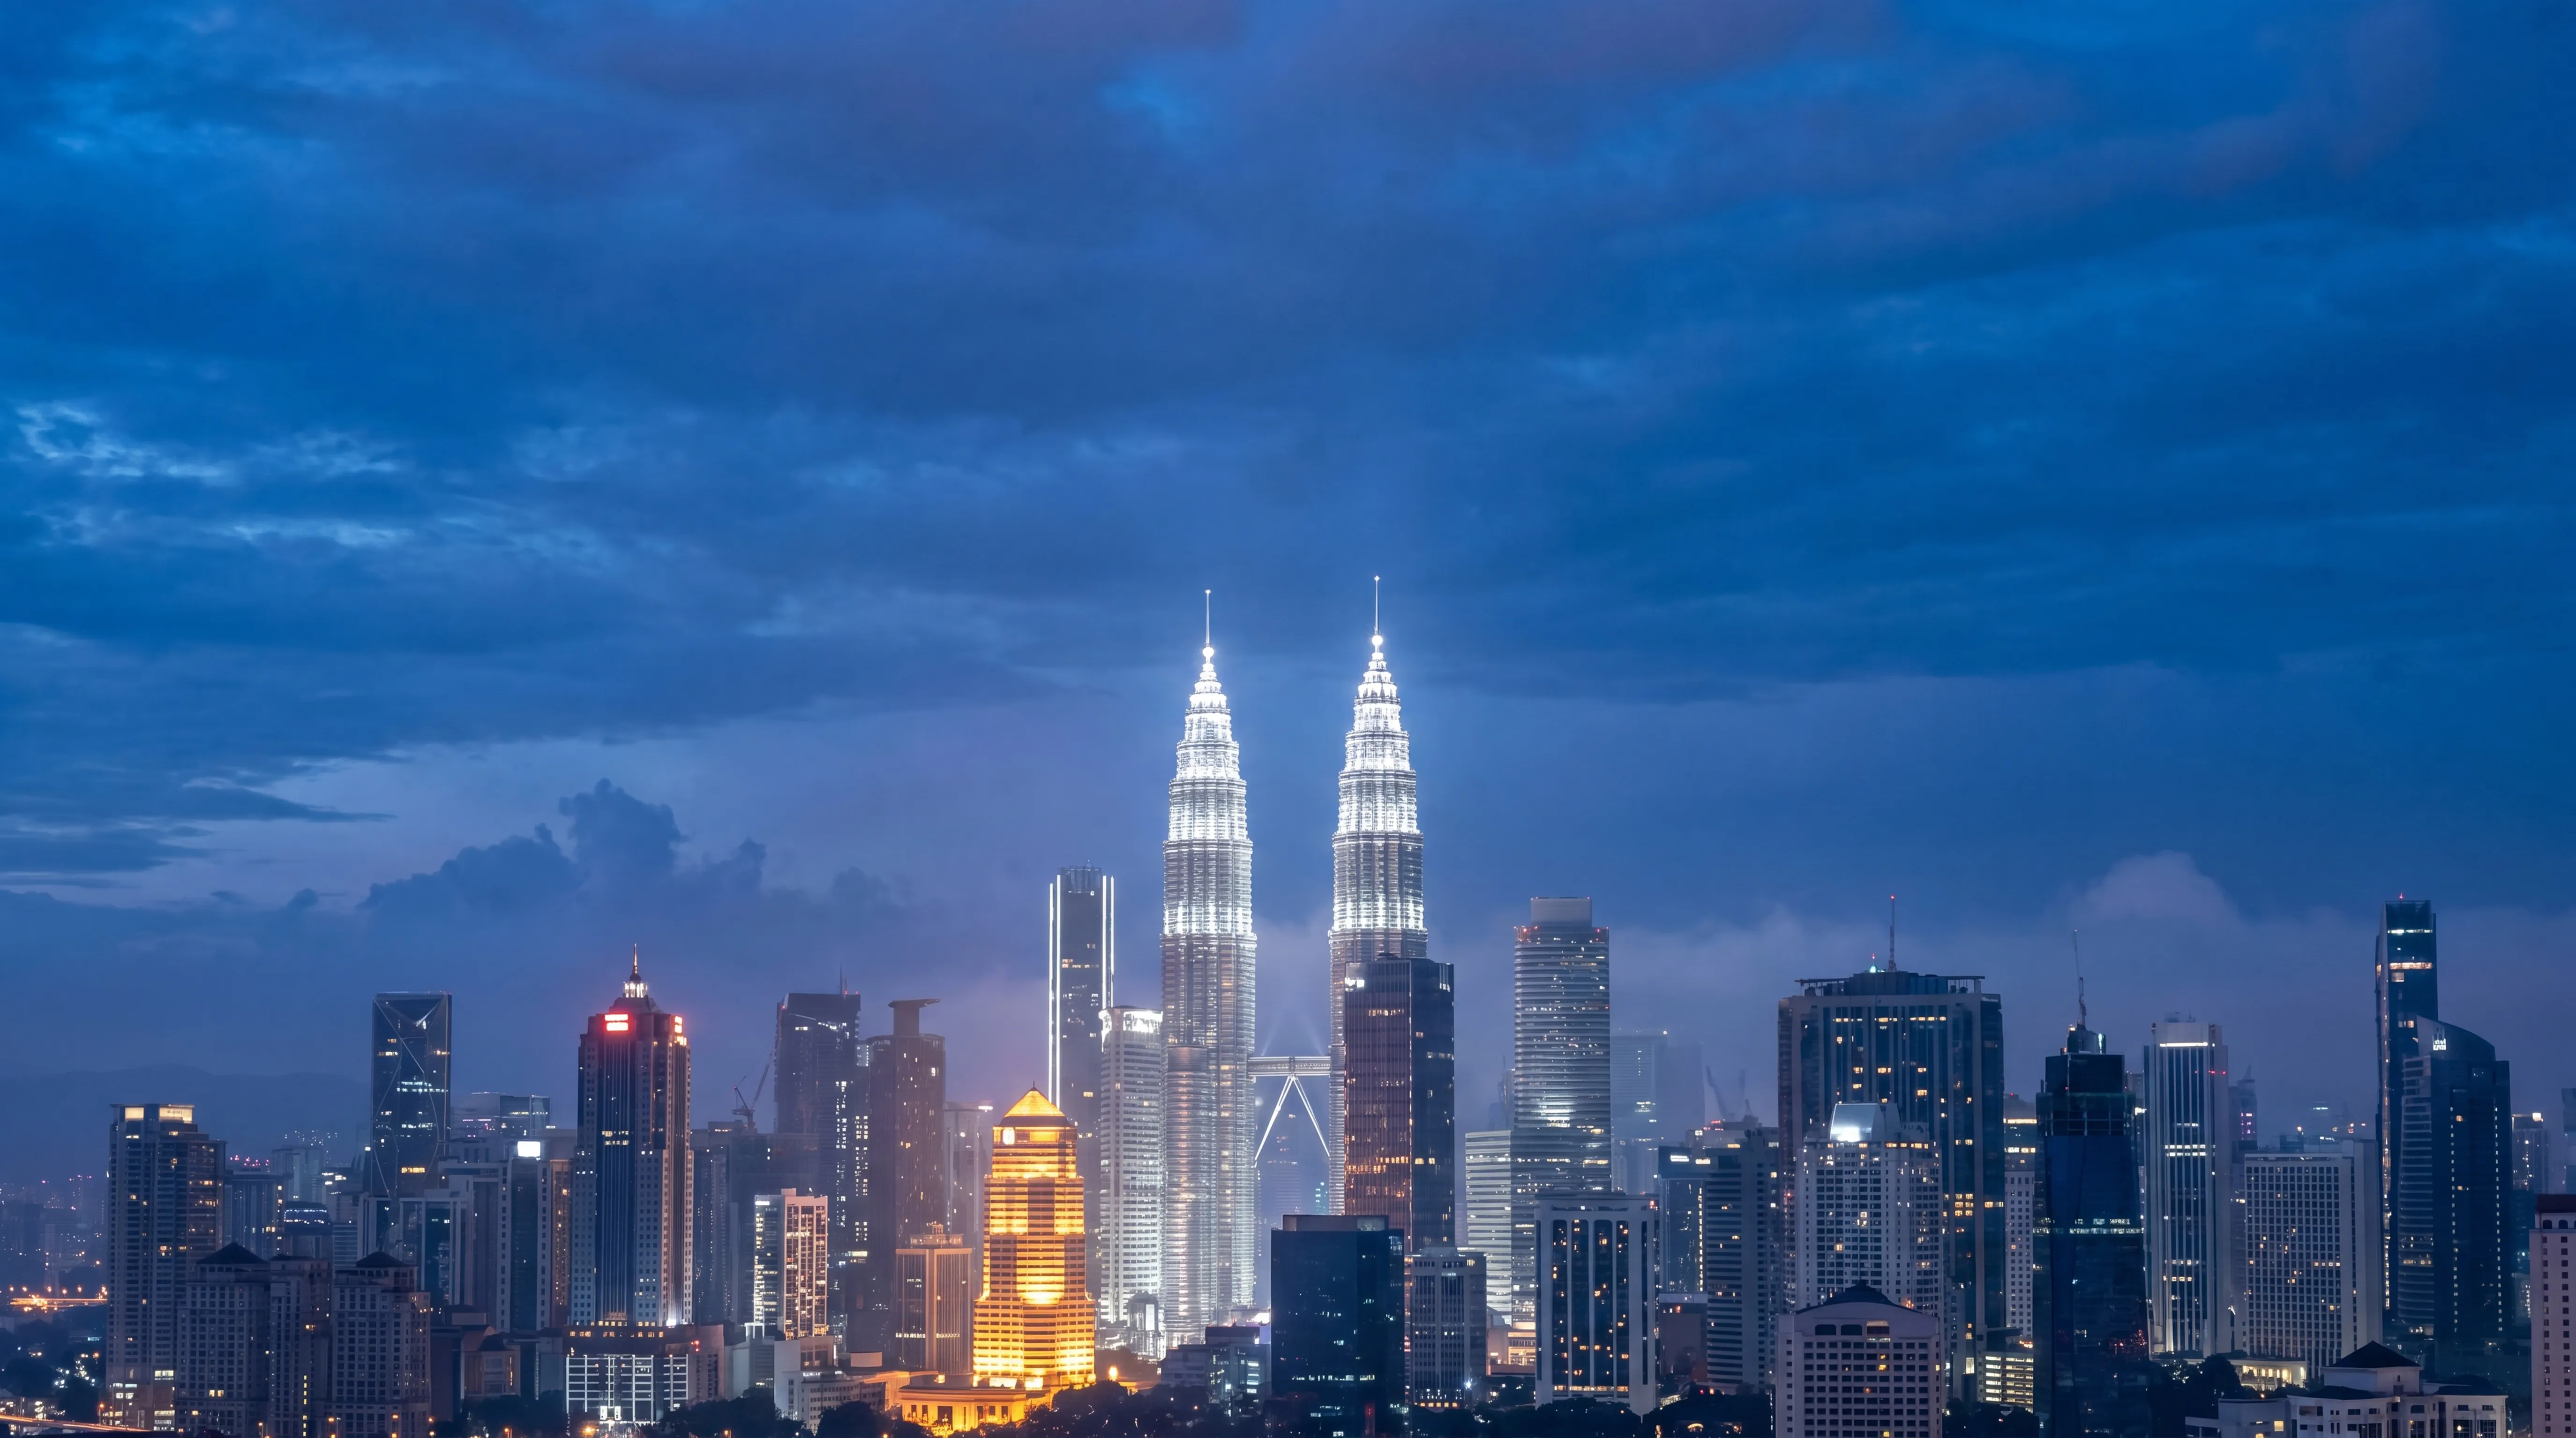
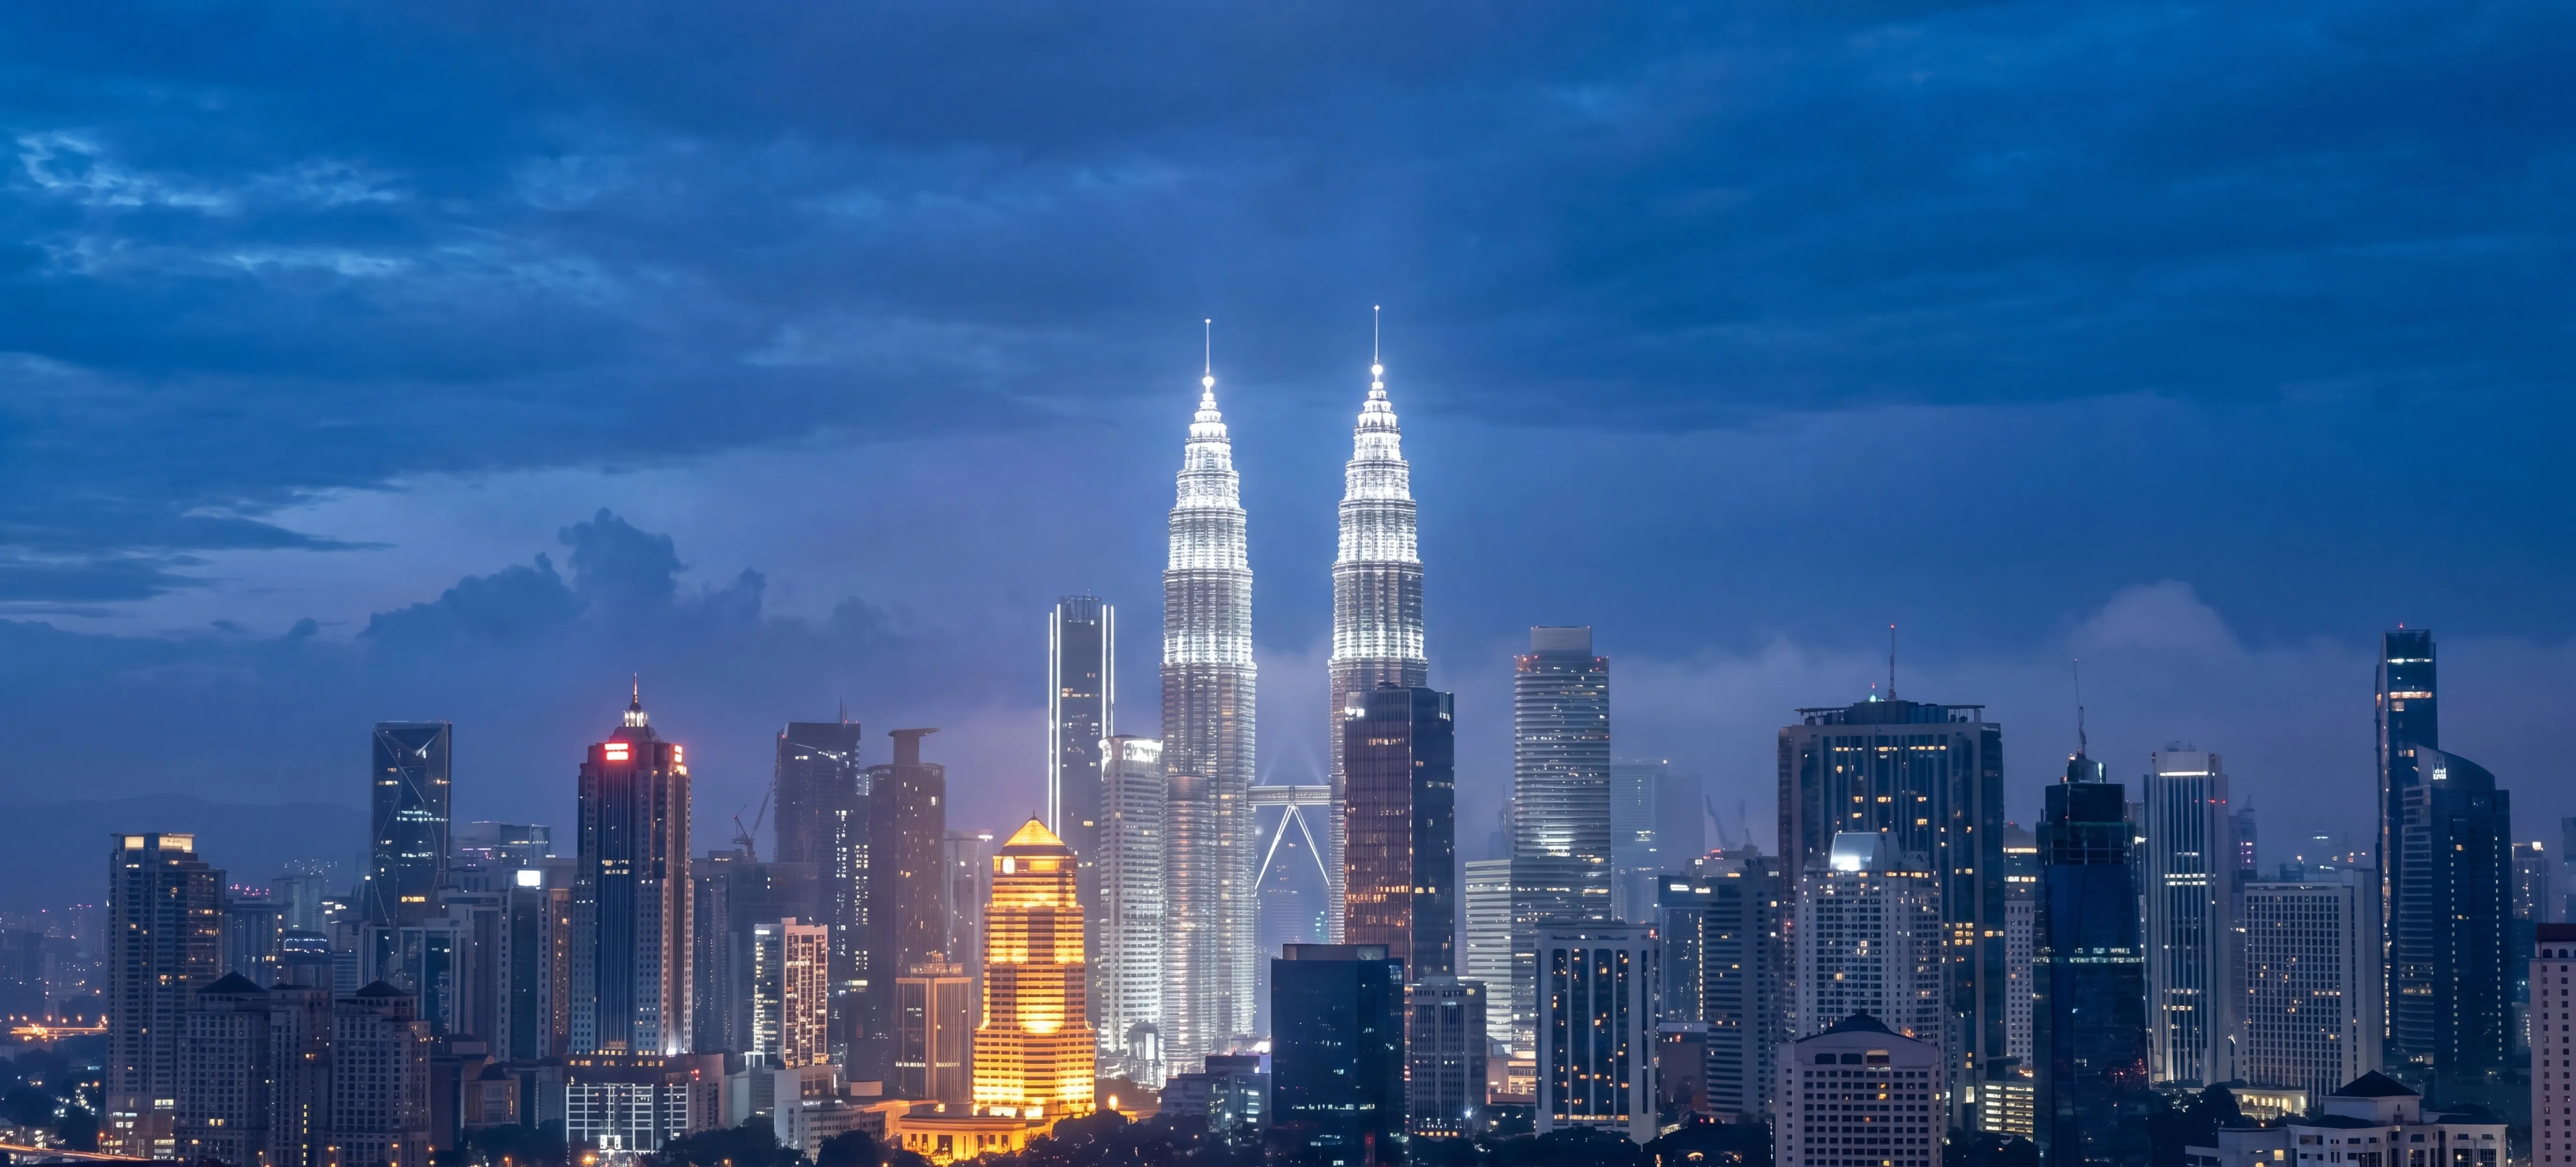
feat: update homestay cards to blue add booking.com CTA and links

diff --git a/src/components/cards/HomestayCard.tsx b/src/components/cards/HomestayCard.tsx
@@ -1,8 +1,9 @@
 import { useState } from "react";
 import { Link } from "react-router-dom";
-import { MapPin, Users, BedDouble, Bath, Home as HomeIcon, ArrowRight } from "lucide-react";
+import { MapPin, Users, BedDouble, Bath, Home as HomeIcon } from "lucide-react";
 import type { Homestay } from "@/lib/data";
 import { cn } from "@/lib/utils";
+import bookingSvg from "@/assets/booking-ar21.svg";
 
 type HomestayCardProps = {
   homestay: Homestay;
@@ -15,15 +16,15 @@ export default function HomestayCard({ homestay, className }: HomestayCardProps)
   return (
     <article
       className={cn(
-        "group flex flex-col overflow-hidden rounded-2xl border border-slate-200 bg-white shadow-md card-hover-violet",
+        "group flex flex-col overflow-hidden rounded-2xl border border-slate-200 bg-white shadow-md card-hover-blue",
         className
       )}
     >
       {/* Gradient top accent stripe */}
-      <div className="h-1.5 w-full bg-gradient-to-r from-violet-500 to-purple-500" aria-hidden="true" />
+      <div className="h-1.5 w-full bg-gradient-to-r from-blue-500 to-cyan-500" aria-hidden="true" />
 
-      {/* Image */}
-      <div className="relative aspect-[4/3] overflow-hidden bg-gradient-to-br from-violet-50 to-purple-50 flex items-center justify-center">
+      {/* Image - Clickable */}
+      <Link to={`/homestay/${homestay.slug}`} className="block relative aspect-[4/3] overflow-hidden bg-gradient-to-br from-blue-50 to-cyan-50 flex items-center justify-center">
         {!imgError && homestay.image ? (
           <img
             src={homestay.image}
@@ -35,27 +36,29 @@ export default function HomestayCard({ homestay, className }: HomestayCardProps)
         ) : (
           <div className="flex flex-col items-center justify-center gap-2 p-6">
             <div className="flex h-16 w-16 items-center justify-center rounded-2xl bg-white shadow-sm">
-              <HomeIcon className="h-8 w-8 text-violet-200" />
+              <HomeIcon className="h-8 w-8 text-blue-200" />
             </div>
-            <span className="text-[11px] font-semibold uppercase tracking-widest text-violet-300">
+            <span className="text-[11px] font-semibold uppercase tracking-widest text-blue-300">
               Photo coming soon
             </span>
           </div>
         )}
 
         {/* Location overlay pill */}
-        <div className="absolute bottom-3 left-3 flex items-center gap-1.5 rounded-full bg-gradient-to-r from-violet-600/85 to-purple-600/85 px-3 py-1.5 backdrop-blur-sm">
+        <div className="absolute bottom-3 left-3 flex items-center gap-1.5 rounded-full bg-gradient-to-r from-blue-600/85 to-cyan-600/85 px-3 py-1.5 backdrop-blur-sm">
           <MapPin className="h-3 w-3 text-white/90" aria-hidden="true" />
           <span className="text-[11px] font-bold text-white">
             {homestay.location.split(",")[0]}
           </span>
         </div>
-      </div>
+      </Link>
 
       <div className="flex flex-1 flex-col p-5">
-        <h3 className="font-jost text-[19px] font-bold text-slate-900 leading-snug">
-          {homestay.name}
-        </h3>
+        <Link to={`/homestay/${homestay.slug}`} className="hover:text-blue-600 transition-colors">
+          <h3 className="font-jost text-[19px] font-bold text-slate-900 leading-snug">
+            {homestay.name}
+          </h3>
+        </Link>
 
         {/* Specs chips */}
         <div className="mt-3 flex flex-wrap gap-1.5">
@@ -98,13 +101,15 @@ export default function HomestayCard({ homestay, className }: HomestayCardProps)
             </p>
           )}
 
-          <Link
-            to={`/homestay/${homestay.slug}`}
-            className="ml-auto inline-flex items-center gap-1.5 rounded-xl bg-gradient-to-r from-violet-600 to-purple-600 px-4 py-2 text-sm font-jost font-bold text-white shadow-md shadow-violet-300/30 transition-all hover:shadow-violet-400/50 hover:scale-105 focus:outline-none focus:ring-2 focus:ring-violet-500 focus:ring-offset-2"
+          <a
+            href={homestay.bookingUrl || "#"}
+            target="_blank"
+            rel="noopener noreferrer"
+            className="ml-auto inline-flex items-center gap-1.5 rounded-xl bg-gradient-to-r from-blue-600 to-cyan-600 px-4 py-2 text-sm font-jost font-bold text-white shadow-md shadow-blue-300/30 transition-all hover:shadow-blue-400/50 hover:scale-105 focus:outline-none focus:ring-2 focus:ring-blue-500 focus:ring-offset-2"
           >
-            View stay
-            <ArrowRight className="h-4 w-4" aria-hidden="true" />
-          </Link>
+            View on
+            <img src={bookingSvg} alt="Booking.com" className="h-4 w-auto" />
+          </a>
         </div>
       </div>
     </article>

diff --git a/src/pages/ContactPage.tsx b/src/pages/ContactPage.tsx
@@ -71,49 +71,49 @@ export default function ContactPage() {
 
               {/* Contact Info List */}
               <div className="mt-10 space-y-6">
-                <div className="flex gap-4">
-                  <div className="flex h-12 w-12 shrink-0 items-center justify-center rounded-xl bg-blue-100 text-blue-700">
-                    <Phone className="h-6 w-6" />
+                <div className="flex gap-4 sm:gap-4">
+                  <div className="flex h-10 w-10 sm:h-12 sm:w-12 shrink-0 items-center justify-center rounded-xl bg-blue-100 text-blue-700">
+                    <Phone className="h-5 w-5 sm:h-6 sm:w-6" />
                   </div>
-                  <div>
-                    <h4 className="text-sm font-semibold uppercase tracking-wider text-slate-500">
+                  <div className="min-w-0 flex-1">
+                    <h4 className="text-[13px] sm:text-sm font-semibold uppercase tracking-wider text-slate-500">
                       Phone Number
                     </h4>
                     <a
                       href="tel:+60REPLACE_WITH_REAL_NUMBER"
-                      className="mt-1 block text-base font-medium text-slate-900 hover:text-blue-600 transition-colors"
+                      className="mt-1 block text-[15px] sm:text-base font-medium text-slate-900 hover:text-blue-600 transition-colors break-all sm:break-words"
                     >
                       +60 REPLACE_WITH_REAL_NUMBER
                     </a>
                   </div>
                 </div>
 
-                <div className="flex gap-4">
-                  <div className="flex h-12 w-12 shrink-0 items-center justify-center rounded-xl bg-blue-100 text-blue-700">
-                    <Mail className="h-6 w-6" />
+                <div className="flex gap-4 sm:gap-4">
+                  <div className="flex h-10 w-10 sm:h-12 sm:w-12 shrink-0 items-center justify-center rounded-xl bg-blue-100 text-blue-700">
+                    <Mail className="h-5 w-5 sm:h-6 sm:w-6" />
                   </div>
-                  <div>
-                    <h4 className="text-sm font-semibold uppercase tracking-wider text-slate-500">
+                  <div className="min-w-0 flex-1">
+                    <h4 className="text-[13px] sm:text-sm font-semibold uppercase tracking-wider text-slate-500">
                       Email Address
                     </h4>
                     <a
                       href="mailto:REPLACE_WITH_REAL_EMAIL"
-                      className="mt-1 block text-base font-medium text-slate-900 hover:text-blue-600 transition-colors"
+                      className="mt-1 block text-[15px] sm:text-base font-medium text-slate-900 hover:text-blue-600 transition-colors break-all sm:break-words"
                     >
                       REPLACE_WITH_REAL_EMAIL
                     </a>
                   </div>
                 </div>
 
-                <div className="flex gap-4">
-                  <div className="flex h-12 w-12 shrink-0 items-center justify-center rounded-xl bg-blue-100 text-blue-700">
-                    <Clock className="h-6 w-6" />
+                <div className="flex gap-4 sm:gap-4">
+                  <div className="flex h-10 w-10 sm:h-12 sm:w-12 shrink-0 items-center justify-center rounded-xl bg-blue-100 text-blue-700">
+                    <Clock className="h-5 w-5 sm:h-6 sm:w-6" />
                   </div>
-                  <div>
-                    <h4 className="text-sm font-semibold uppercase tracking-wider text-slate-500">
+                  <div className="min-w-0 flex-1">
+                    <h4 className="text-[13px] sm:text-sm font-semibold uppercase tracking-wider text-slate-500">
                       Operating Hours
                     </h4>
-                    <p className="mt-1 text-base font-medium text-slate-900">
+                    <p className="mt-1 text-[15px] sm:text-base font-medium text-slate-900 break-words">
                       REPLACE_WITH_REAL_HOURS
                     </p>
                   </div>

diff --git a/src/pages/HomestayDetailPage.tsx b/src/pages/HomestayDetailPage.tsx
@@ -7,7 +7,7 @@ import ImageGalleryPlaceholder from "@/components/ui/ImageGalleryPlaceholder";
 import SectionHeader from "@/components/ui/SectionHeader";
 import HomestayCard from "@/components/cards/HomestayCard";
 import { getHomestayBySlug, getRelatedHomestays } from "@/lib/data";
-import { generateWhatsAppLink } from "@/lib/whatsapp";
+import bookingSvg from "@/assets/booking-ar21.svg";
 import {
   MapPin,
   Users,
@@ -33,10 +33,6 @@ export default function HomestayDetailPage() {
   if (!homestay) return null;
 
   const relatedHomestays = getRelatedHomestays(homestay.slug);
-  const whatsappLink = generateWhatsAppLink({
-    serviceType: "Homestay",
-    itemName: homestay.name,
-    pageSource: `Homestay Detail - ${homestay.name}`});
 
   const overviewItems = [
     { icon: MapPin, label: "Location", value: homestay.location },
@@ -193,19 +189,17 @@ export default function HomestayDetailPage() {
                 </div>
               )}
 
-              {/* WhatsApp CTA */}
+              {/* Booking CTA */}
               <div className="mt-8">
-                <Button
-                  as="anchor"
-                  href={whatsappLink}
-                  external
-                  variant="whatsapp"
-                  size="lg"
-                  className="w-full sm:w-auto"
-                  iconLeft={<img src="/images/general/whatsapp-logo.svg" className="h-6 w-6 shrink-0" alt="" />}
+                <a
+                  href={homestay.bookingUrl || "#"}
+                  target="_blank"
+                  rel="noopener noreferrer"
+                  className="inline-flex w-full sm:w-auto items-center justify-center gap-2 rounded-xl bg-[#003580] hover:bg-[#002255] px-6 py-3.5 text-base font-bold text-white shadow-md shadow-[#003580]/30 transition-all hover:shadow-[#003580]/50 hover:scale-105 focus:outline-none focus:ring-2 focus:ring-[#003580] focus:ring-offset-2"
                 >
-                  Request Booking on WhatsApp
-                </Button>
+                  View on
+                  <img src={bookingSvg} alt="Booking.com" className="h-5 w-auto" />
+                </a>
               </div>
             </div>
           </div>

diff --git a/src/components/layout/Navbar.tsx b/src/components/layout/Navbar.tsx
@@ -102,7 +102,7 @@ export default function Navbar() {
       {isOpen && (
         <div
           id="mobile-menu"
-          className="fixed inset-x-0 top-20 z-50 h-[calc(100vh-5rem)] w-full border-t border-slate-200 bg-white px-4 py-6 shadow-xl transition-all duration-300 md:hidden flex flex-col justify-between"
+          className="fixed inset-x-0 top-20 z-50 h-[calc(100vh-5rem)] w-full border-t border-slate-200 bg-white px-4 py-6 shadow-xl transition-all duration-300 md:hidden flex flex-col"
         >
           <div className="flex flex-col gap-5">
             {navLinks.map((link) => {
@@ -119,20 +119,6 @@ export default function Navbar() {
                 </Link>
               );
             })}
-          </div>
-
-          <div className="pb-8">
-            <Button
-              as="anchor"
-              href={getGeneralWhatsAppLink()}
-              external
-              variant="whatsapp"
-              size="lg"
-              className="w-full justify-center"
-              iconLeft={<img src="/images/general/whatsapp-logo.svg" className="h-6 w-6" alt="" />}
-            >
-              Message us on WhatsApp
-            </Button>
           </div>
         </div>
       )}

diff --git a/src/components/sections/Hero.tsx b/src/components/sections/Hero.tsx
@@ -79,13 +79,13 @@ export default function Hero() {
                     : "opacity-0 translate-y-4 -z-10 duration-500"
                 )}
               >
-                <span className="mb-4 block font-satisfy text-[38px] md:text-[50px] text-blue-300 font-medium leading-none drop-shadow-md">
+                <span className="mb-2 sm:mb-4 block font-satisfy text-[32px] sm:text-[38px] md:text-[50px] text-blue-300 font-medium leading-none drop-shadow-md">
                   {slide.topText}
                 </span>
                 <h1 className="font-jost text-4xl font-bold leading-[1.1] tracking-tight text-white drop-shadow-md sm:text-5xl md:text-6xl lg:text-[66px]">
                   {slide.headline}
                 </h1>
-                <p className="mt-6 text-base md:text-lg leading-[1.8] text-slate-200 max-w-lg drop-shadow-sm">
+                <p className="mt-4 md:mt-6 text-[15px] sm:text-base md:text-lg leading-[1.6] md:leading-[1.8] text-slate-200 max-w-[280px] sm:max-w-md md:max-w-lg drop-shadow-sm pr-2">
                   {slide.description}
                 </p>
               </div>

diff --git a/src/components/cards/TourCard.tsx b/src/components/cards/TourCard.tsx
@@ -79,7 +79,7 @@ export default function TourCard({ tour, className }: TourCardProps) {
           ))}
         </div>
 
-        <div className="mt-auto pt-4 flex items-center justify-between">
+        <div className="mt-auto pt-4 flex flex-wrap items-center justify-between gap-3">
           {tour.priceFrom && (
             <p className="text-sm text-slate-500">
               From{" "}

diff --git a/src/lib/data.ts b/src/lib/data.ts
@@ -36,6 +36,7 @@ export type Homestay = {
   nearby?: string[];
   notes?: string[];
   description?: string;
+  bookingUrl?: string;
 };
 
 export type Tour = {